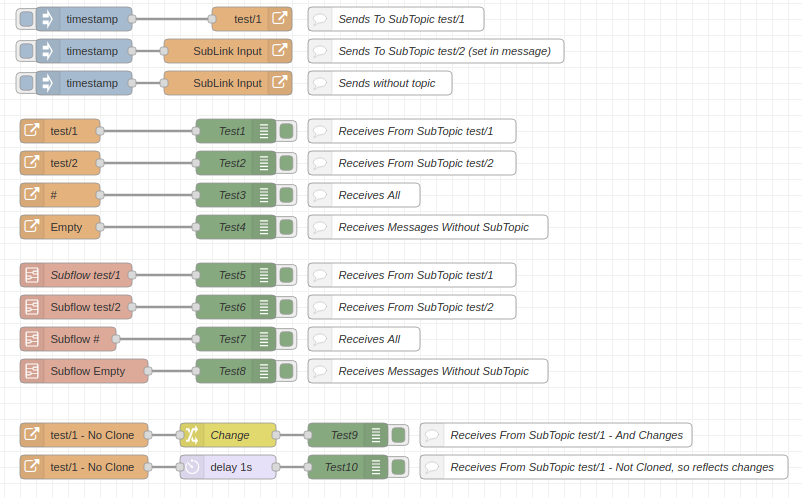
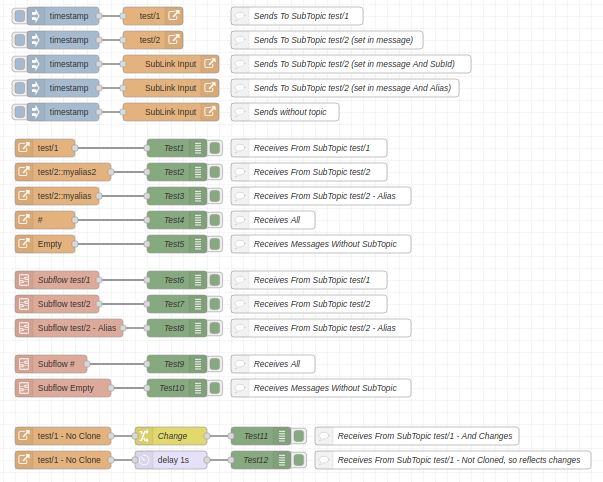
Added Alias and ID linking

diff --git a/sub-link-config.js b/sub-link-config.js
@@ -2,23 +2,44 @@ module.exports = function(RED) {
     function SubLinkNodeConfig(config) {
         RED.nodes.createNode(this, config);
         this.name  = config.name;
-        this.clone = config.clone
+        this.clone = config.clone;
+        this.alias = config.alias;
         var MQTTPattern = require("mqtt-pattern");
 
         var node = this;
 
         //List of Outputs to this config
         node.target = {};
+        node.aliasTarget = {};
+        node.targetAlias = {};
 
         //Listener To Emit New Messages To Output
-        node.listener = function(msg,subTopic=null) {
-            if(subTopic === "")
-            subTopic = null; 
+        node.listener = function(msg,topic=null) {
+            var target = node.target;
+            
+            var subId = null;
+            
+            if(msg.subId !== undefined){
+                target = {};
+                if(node.target[msg.subId] !== undefined){
+                    target[msg.subId] = node.target[msg.subId]; 
+                }
+            }else if(msg.subAlias !== undefined){
+                target = {};
+                if(node.aliasTarget[msg.subAlias] !== undefined){
+                    for(var o in node.aliasTarget[msg.subAlias]){
+                        target[o] = node.aliasTarget[msg.subAlias][o];
+                    }
+                }
+            }
+            
+            if(topic === "")
+                topic = null; 
 
-            if(subTopic === null && msg.subTopic !== undefined && msg.subTopic !== "")
-                subTopic = msg.subTopic;
+            if(topic === null && msg.subTopic !== undefined && msg.subTopic !== "")
+                topic = msg.subTopic;
 
-            for(out in node.target){
+            for(out in target){
                 
                 //Clone Messages
                 if(node.clone === true && msg._sub_flow_clone !== true){
@@ -29,44 +50,80 @@ module.exports = function(RED) {
                     message = msg;
 
                 //Checks If Sends Messagae
-                if(node.target[out].subTopic === "#"){
+                if(target[out].topic === "#"){
                     //Output All
-                }else if(subTopic !== null && node.target[out].subTopic !== null){
-                    if(MQTTPattern.matches(node.target[out].subTopic,subTopic) !== true)
+                }else if(topic !== null && target[out].topic !== null){
+                    if(MQTTPattern.matches(target[out].topic,topic) !== true)
                         continue;
-                }else if(subTopic !== null || node.target[out].subTopic !== null){
+                }else if(topic !== null || target[out].topic !== null){
                     continue;
-                }else if(subTopic !== null && node.target[out].subTopic === null){
+                }else if(topic !== null && target[out].topic === null){
                     continue;
-                }else if(subTopic === null && node.target[out].subTopic !== null){
+                }else if(topic === null && target[out].topic !== null){
                     continue;
                 }
 
-                node.target[out].node.sendMessage(message);
+                message.subTopic   = topic;
+                message.subMyId    = target[out].node.id;
+
+                if(target[out].node.name !== undefined)
+                    message.subMyName = target[out].node.name;
+
+                if(target[out].node.alias !== undefined)
+                    message.subMyAlias = target[out].node.alias;
+
+                //Delete Targets to prevent Loops
+                delete message.subId;
+                delete message.subAlias;
+
+                target[out].node.sendMessage(message);
                 delete message;
                 delete msg;
             }
         }
 
         //Register New Output
-        node.registerSubOutput = function(n,subTopic=null){
-            if(subTopic === "")
-            subTopic = null; 
+        node.registerSubOutput = function(n,topic=null){
+            if(topic === "")
+                topic = null; 
 
             node.target[n.id] = {};
             node.target[n.id].node = n;
-            node.target[n.id].subTopic = subTopic;
+            node.target[n.id].topic = topic;
+
+            if(n.alias !== undefined && n.alias !== "" && n.alias !== null){
+                if(this.aliasTarget[n.alias]===undefined)
+                    this.aliasTarget[n.alias] = {};
+                
+                if(this.targetAlias[n.id]!==undefined){ 
+                    delete this.aliasTarget[this.targetAlias[n.id]];
+                    this.targetAlias[n.id] = n.alias;
+                }
+
+                this.targetAlias[n.id] = n.alias;
+                this.aliasTarget[n.alias][n.id] = node.target[n.id];
+            }
         }
 
         //Unegister Output
         node.unregisterSubOutput = function(n){
             delete node.target[n.id];
+
+            if(n.alias !== undefined && n.alias !== "" && n.alias !== null && aliasTarget[n.alias] !== undefined)
+                delete aliasTarget[n.alias][n.id];
+
+            if(Object.keys(aliasTarget[n.alias]).length === 0)
+                delete aliasTarget[n.alias];
         }
 
         //Remove New Message Listener
         node.on("close",function(removed, done) { 
             for(t in node.target)
-                node.unregisterSubOutput(n);
+                node.unregisterSubOutput(node.target[t]);
+
+            node.target = {};
+            node.aliasTarget = {};
+            
             if(done)
                 done();
         });

diff --git a/sub-link-output.html b/sub-link-output.html
@@ -5,14 +5,19 @@
         icon: "font-awesome/fa-external-link",
         defaults: {
             name:  {value:""},
-            subTopic: {value:"",required:false,validate: RED.validators.regex(/^(#$|(\+|[^+#]*)(\/(\+|[^+#]*))*(\/(\+|#|[^+#]*))?$)/)},
+            topic: {value:"",required:false,validate: RED.validators.regex(/^(#$|(\+|[^+#]*)(\/(\+|[^+#]*))*(\/(\+|#|[^+#]*))?$)/)},
             link: {value:"", type: "sub-link-config", required:true},
+            alias: {value:""},
             clone: {value:false}
         },          
         inputs:0,
         outputs:1,
         label: function() {
-            return this.name||this.subTopic||"SubLink Output";
+            var name = this.name||this.topic||"SubLink Output";
+            if(this.alias !== undefined && this.alias !== "" && this.alias !== null)
+                name = name+"::"+this.alias;
+
+            return name;
         },
         paletteLabel: "SubLink Outbound"
     });
@@ -25,8 +30,13 @@
     </div>
 
     <div class="form-row">
-        <label for="node-input-subTopic"><i class="fa fa-tasks"></i> Topic</label>
-        <input type="text" id="node-input-subTopic">
+        <label for="node-input-topic"><i class="fa fa-tasks"></i> Topic</label>
+        <input type="text" id="node-input-topic">
+    </div>
+
+    <div class="form-row">
+        <label for="node-input-alias"><i class="fa fa-at"></i> Alias</label>
+        <input type="text" id="node-input-alias">
     </div>
 
     <div class="form-row">
@@ -42,9 +52,22 @@
 
 <script type="text/x-red" data-help-name="sub-link-output">
     <p>Recives message from a link</p>
+    <h3>Outputs</h3>
+    <dl class="message-properties">
+        <dt class="optional">subTopic <span class="property-type">string</span></dt>
+        <dd> the topic from the message.</dd>
+        <dt class="optional">subMyId <span class="property-type">string</span></dt>
+        <dd> the instance id.</dd>
+        <dt class="optional">subMyAlias <span class="property-type">string</span></dt>
+        <dd> the output alias.</dd>
+    </dl>
     <h3>Details</h3>
     <p>
         The message is send via the link to all ouput that use the same link object.
-        If a topic is informed, only outputs that subscribe to that topic will get the message
+        <ul>
+            <li> If a <code>subTopic</code> is informed, only outputs that subscribe to that topic will get the message</li>
+            <li> If <code>subId</code> is informed, only that instance id will get the message</li>
+            <li> If <code>subAlias</code> is informed, only outputs with that alias will get the message</li>
+        </ul>
     </p>
 </script>

diff --git a/sub-link-input.html b/sub-link-input.html
@@ -5,13 +5,13 @@
         color: '#e3b27d',
         defaults: {
             name:  {value:""},
-            subTopic: {value:"",required:false,validate: RED.validators.regex(/^(#$|(\+|[^+#]*)(\/(\+|[^+#]*))*(\/(\+|#|[^+#]*))?$)/)},
+            topic: {value:"",required:false,validate: RED.validators.regex(/^(#$|(\+|[^+#]*)(\/(\+|[^+#]*))*(\/(\+|#|[^+#]*))?$)/)},
             link:  {value:"", type: "sub-link-config", required:true}
         },          
         inputs:1,
         outputs:0,
         label: function() {
-            return this.name||this.subTopic||"SubLink Input";
+            return this.name||this.topic||"SubLink Input";
         },
         paletteLabel: "SubLink Inbound"
     });
@@ -23,8 +23,8 @@
         <input type="text" id="node-input-link">
     </div>
     <div class="form-row">
-        <label for="node-input-subTopic"><i class="fa fa-tasks"></i> Topic</label>
-        <input type="text" id="node-input-subTopic">
+        <label for="node-input-topic"><i class="fa fa-tasks"></i> Topic</label>
+        <input type="text" id="node-input-topic">
     </div>
     <div class="form-row">
         <label for="node-input-name"><i class="fa fa-tag"></i> Name</label>
@@ -37,11 +37,20 @@
     <h3>Inputs</h3>
     <dl class="message-properties">
         <dt class="optional">subTopic <span class="property-type">string</span></dt>
-        <dd> the optinal topic to send the message.</dd>
+        <dd> the optional topic to send the message.</dd>
+        <dt class="optional">subId <span class="property-type">string</span></dt>
+        <dd> the optional instance ID to send the message.</dd>
+        <dt class="optional">subAlias <span class="property-type">string</span></dt>
+        <dd> the optional alias to send the message.</dd>
     </dl>
     <h3>Details</h3>
     <p>
         The message is send via the link to all ouput that use the same link object.
-        If a topic is informed, only outputs that subscribe to that topic will get the message
+
+        <ul>
+            <li> If a <code>subTopic</code> is informed, only outputs that subscribe to that topic will get the message</li>
+            <li> If <code>subId</code> is informed, only that instance id will get the message</li>
+            <li> If <code>subAlias</code> is informed, only outputs with that alias will get the message</li>
+        </ul>
     </p>
 </script>

diff --git a/sub-link-output.js b/sub-link-output.js
@@ -2,7 +2,8 @@ module.exports = function(RED) {
     function SubLinkNodeOut(config) {
         RED.nodes.createNode(this,config);
         this.clone = config.clone;
-        this.subTopic = config.subTopic;
+        this.topic = config.topic;
+        this.alias = config.alias;
         
         var node = this;
 
@@ -26,7 +27,7 @@ module.exports = function(RED) {
 
         //Register Outbound Node In Config
         if (node.subLink) {
-            node.subLink.registerSubOutput(node,this.subTopic);
+            node.subLink.registerSubOutput(node,this.topic);
         }
 
         //Unregister Outbound Node In Config

diff --git a/sub-link-input.js b/sub-link-input.js
@@ -1,7 +1,7 @@
 module.exports = function(RED) {
     function SubLinkNodeIn(config) {
         RED.nodes.createNode(this,config);
-        this.subTopic = config.subTopic;
+        this.topic = config.topic;
 
         var node = this;
 
@@ -10,7 +10,7 @@ module.exports = function(RED) {
        
         //Send Inbound Message (Emit Event)
         this.on('input', function(msg, send, done) {
-            node.subLink.listener(msg,this.subTopic);
+            node.subLink.listener(msg,this.topic);
             delete msg;
 
             if (done)

diff --git a/README.md b/README.md
@@ -7,7 +7,7 @@ npm install node-red-contrib-sub-link
 ```
 
 ## Usage
-This node can be used to link flows and subflows, it will flow the message from an input, casting to all outputs that are linked. Linking can be done by configuring a "link" (each configuration node is a link) and can be refined by topics, similar to MQTT
+This node can be used to link flows and subflows, it will send the message from an input, casting to all outputs that are linked. Linking can be done by configuring a "link" (each configuration node is a link) and can be refined by topics, similar to MQTT, a alias or even a direct id of the istance.
 
 
 A message can be sent as it is, or cloned! Cloning a message can be achieved by cloning in the link (config node), in the output of the message. A message that is cloned will be a new instance of the object. If not cloned, all changes to the message in one flow, will impact the other.
@@ -26,7 +26,10 @@ A message can be sent as it is, or cloned! Cloning a message can be achieved by 
 - **Link:** The selected link to handle the messages
 - **Topic:** The topic that will send the message, this is optional. If not specified, only outputs with all wildcard (#) and outputs without topic will receive the message
 
-
+- **Message Properties**
+    - **subTopic**: The topic to send the message
+    - **subAlias**: The alias from the output node (can be captured in the output message in subMyAlias)
+    - **subId**: The id from the output node (can be captured in the output message in subMyId)
 
 ### Output
 ![Input](https://raw.githubusercontent.com/soloam/node-red-contrib-sub-link/beta/resources/output.png)
@@ -35,11 +38,16 @@ A message can be sent as it is, or cloned! Cloning a message can be achieved by 
 - **Topic:** The topic that will send the message, this is optional. If not specified, only outputs with all wildcard (#) and outputs without topic will receive the message
 - **Clone:** Clones all messages that exit this node
 
+- **Message Properties**
+    - **subTopic**: The topic of the message
+    - **subMyAlias**: The alias the output node (can be captured in the output message in subMyAlias)
+    - **subMyId**: The id from the output node (can be captured in the output message in subMyId)
+
 
 
 ## Example
 ![Input](https://raw.githubusercontent.com/soloam/node-red-contrib-sub-link/beta/resources/example-1.png)
 
 ```
-[{"id":"b541e6c.edc0418","type":"subflow","name":"Subflow Empty","info":"","category":"","in":[],"out":[{"x":360,"y":80,"wires":[{"id":"c87ae8c6.9bf478","port":0}]}],"env":[],"color":"#DDAA99"},{"id":"c87ae8c6.9bf478","type":"sub-link-output","z":"b541e6c.edc0418","name":"","subTopic":"","link":"d3ff029b.e3a1","clone":true,"x":200,"y":80,"wires":[[]]},{"id":"1a29752.8268f8b","type":"subflow","name":"Subflow #","info":"","category":"","in":[],"out":[{"x":320,"y":80,"wires":[{"id":"9d0d79d0.c7cd68","port":0}]}],"env":[],"color":"#DDAA99"},{"id":"9d0d79d0.c7cd68","type":"sub-link-output","z":"1a29752.8268f8b","name":"","subTopic":"#","link":"d3ff029b.e3a1","clone":true,"x":190,"y":80,"wires":[[]]},{"id":"f4458344.f38d4","type":"subflow","name":"Subflow test/2","info":"","category":"","in":[],"out":[{"x":320,"y":80,"wires":[{"id":"68691869.3c7178","port":0}]}],"env":[],"color":"#DDAA99"},{"id":"68691869.3c7178","type":"sub-link-output","z":"f4458344.f38d4","name":"","subTopic":"test/2","link":"d3ff029b.e3a1","clone":true,"x":190,"y":80,"wires":[[]]},{"id":"437255a2.1856bc","type":"subflow","name":"Subflow 5","info":"","in":[],"out":[{"x":320,"y":80,"wires":[{"id":"cec150.29716eb","port":0}]}]},{"id":"cec150.29716eb","type":"sub-link-output","z":"437255a2.1856bc","name":"","subTopic":"test/1","link":"d3ff029b.e3a1","clone":true,"x":190,"y":80,"wires":[[]]},{"id":"b6731dd8.60d45","type":"tab","label":"SubLink Example","disabled":false,"info":""},{"id":"653cb1a0.91487","type":"sub-link-input","z":"b6731dd8.60d45","name":"","subTopic":"test/1","link":"d3ff029b.e3a1","x":330,"y":80,"wires":[]},{"id":"55745a84.770bd4","type":"inject","z":"b6731dd8.60d45","name":"","props":[{"p":"payload"}],"repeat":"","crontab":"","once":false,"onceDelay":0.1,"topic":"","payload":"","payloadType":"date","x":120,"y":80,"wires":[["653cb1a0.91487"]]},{"id":"fe4b9bf7.dbd198","type":"sub-link-output","z":"b6731dd8.60d45","name":"Empty","subTopic":"","link":"d3ff029b.e3a1","clone":true,"x":90,"y":340,"wires":[["32154fd.2e2d6b"]]},{"id":"32154fd.2e2d6b","type":"debug","z":"b6731dd8.60d45","name":"Test4","active":true,"tosidebar":true,"console":false,"tostatus":false,"complete":"payload","targetType":"msg","statusVal":"","statusType":"auto","x":310,"y":340,"wires":[]},{"id":"bd7f2e41.6ff6a","type":"sub-link-output","z":"b6731dd8.60d45","name":"","subTopic":"test/1","link":"d3ff029b.e3a1","clone":true,"x":90,"y":220,"wires":[["363322fe.62a8ae"]]},{"id":"363322fe.62a8ae","type":"debug","z":"b6731dd8.60d45","name":"Test1","active":true,"tosidebar":true,"console":false,"tostatus":false,"complete":"payload","targetType":"msg","statusVal":"","statusType":"auto","x":310,"y":220,"wires":[]},{"id":"95c252aa.c1079","type":"sub-link-output","z":"b6731dd8.60d45","name":"","subTopic":"test/2","link":"d3ff029b.e3a1","clone":true,"x":90,"y":260,"wires":[["1bb779a9.ed2976"]]},{"id":"1bb779a9.ed2976","type":"debug","z":"b6731dd8.60d45","name":"Test2","active":true,"tosidebar":true,"console":false,"tostatus":false,"complete":"payload","targetType":"msg","statusVal":"","statusType":"auto","x":310,"y":260,"wires":[]},{"id":"aefa9841.70ee58","type":"sub-link-output","z":"b6731dd8.60d45","name":"","subTopic":"#","link":"d3ff029b.e3a1","clone":true,"x":90,"y":300,"wires":[["2ec9b537.d952ea"]]},{"id":"2ec9b537.d952ea","type":"debug","z":"b6731dd8.60d45","name":"Test3","active":true,"tosidebar":true,"console":false,"tostatus":false,"complete":"payload","targetType":"msg","statusVal":"","statusType":"auto","x":310,"y":300,"wires":[]},{"id":"2f407250.f68d7e","type":"inject","z":"b6731dd8.60d45","name":"","props":[{"p":"payload"},{"p":"subTopic","v":"test/2","vt":"str"}],"repeat":"","crontab":"","once":false,"onceDelay":0.1,"topic":"","payload":"","payloadType":"date","x":120,"y":120,"wires":[["1e6468af.197217"]]},{"id":"1e6468af.197217","type":"sub-link-input","z":"b6731dd8.60d45","name":"","subTopic":"","link":"d3ff029b.e3a1","x":300,"y":120,"wires":[]},{"id":"e8051ebd.d56d4","type":"inject","z":"b6731dd8.60d45","name":"","props":[{"p":"payload"}],"repeat":"","crontab":"","once":false,"onceDelay":0.1,"topic":"","payload":"","payloadType":"date","x":120,"y":160,"wires":[["f205d9e8.b7a528"]]},{"id":"f205d9e8.b7a528","type":"sub-link-input","z":"b6731dd8.60d45","name":"","subTopic":"","link":"d3ff029b.e3a1","x":300,"y":160,"wires":[]},{"id":"4e5913f2.54149c","type":"comment","z":"b6731dd8.60d45","name":"Sends To SubTopic test/1","info":"","x":510,"y":80,"wires":[]},{"id":"dafdde3d.a1cf1","type":"comment","z":"b6731dd8.60d45","name":"Sends To SubTopic test/2 (set in message)","info":"","x":560,"y":120,"wires":[]},{"id":"919fdb87.dc4ba8","type":"comment","z":"b6731dd8.60d45","name":"Sends without topic","info":"","x":490,"y":160,"wires":[]},{"id":"c43fe8c5.c67958","type":"comment","z":"b6731dd8.60d45","name":"Receives From SubTopic test/1","info":"","x":530,"y":220,"wires":[]},{"id":"52da3e1f.c66cf","type":"comment","z":"b6731dd8.60d45","name":"Receives From SubTopic test/2","info":"","x":530,"y":260,"wires":[]},{"id":"16420768.4e7cb9","type":"comment","z":"b6731dd8.60d45","name":"Receives All","info":"","x":470,"y":300,"wires":[]},{"id":"547b9a8b.fde254","type":"comment","z":"b6731dd8.60d45","name":"Receives Messages Without SubTopic","info":"","x":550,"y":340,"wires":[]},{"id":"6f215a20.c7b084","type":"debug","z":"b6731dd8.60d45","name":"Test8","active":true,"tosidebar":true,"console":false,"tostatus":false,"complete":"payload","targetType":"msg","statusVal":"","statusType":"auto","x":310,"y":520,"wires":[]},{"id":"5cf59a66.d77854","type":"debug","z":"b6731dd8.60d45","name":"Test5","active":true,"tosidebar":true,"console":false,"tostatus":false,"complete":"payload","targetType":"msg","statusVal":"","statusType":"auto","x":310,"y":400,"wires":[]},{"id":"1d563654.7805da","type":"debug","z":"b6731dd8.60d45","name":"Test6","active":true,"tosidebar":true,"console":false,"tostatus":false,"complete":"payload","targetType":"msg","statusVal":"","statusType":"auto","x":310,"y":440,"wires":[]},{"id":"4208c185.65935","type":"debug","z":"b6731dd8.60d45","name":"Test7","active":true,"tosidebar":true,"console":false,"tostatus":false,"complete":"payload","targetType":"msg","statusVal":"","statusType":"auto","x":310,"y":480,"wires":[]},{"id":"1c60a82b.6bbf88","type":"subflow:437255a2.1856bc","z":"b6731dd8.60d45","name":"Subflow test/1","env":[],"x":110,"y":400,"wires":[["5cf59a66.d77854"]]},{"id":"561b9cb1.5921f4","type":"subflow:f4458344.f38d4","z":"b6731dd8.60d45","name":"","env":[],"x":110,"y":440,"wires":[["1d563654.7805da"]]},{"id":"77161e7e.9d5a9","type":"subflow:1a29752.8268f8b","z":"b6731dd8.60d45","name":"","env":[],"x":100,"y":480,"wires":[["4208c185.65935"]]},{"id":"6f3cbe2d.ee005","type":"subflow:b541e6c.edc0418","z":"b6731dd8.60d45","name":"","env":[],"x":120,"y":520,"wires":[["6f215a20.c7b084"]]},{"id":"e3c3230a.83a7c","type":"comment","z":"b6731dd8.60d45","name":"Receives All","info":"","x":470,"y":480,"wires":[]},{"id":"1b873936.e73147","type":"comment","z":"b6731dd8.60d45","name":"Receives Messages Without SubTopic","info":"","x":550,"y":520,"wires":[]},{"id":"5f46d312.8e19ec","type":"sub-link-output","z":"b6731dd8.60d45","name":"test/1 - No Clone","subTopic":"test/1","link":"d3ff029b.e3a1","clone":false,"x":120,"y":600,"wires":[["40d140c4.99bf3"]]},{"id":"2094a526.9cc57a","type":"sub-link-output","z":"b6731dd8.60d45","name":"test/1 - No Clone","subTopic":"test/1","link":"d3ff029b.e3a1","clone":false,"x":120,"y":640,"wires":[["337aa181.c4033e"]]},{"id":"c86426fc.bea5f8","type":"debug","z":"b6731dd8.60d45","name":"Test9","active":true,"tosidebar":true,"console":false,"tostatus":false,"complete":"payload","targetType":"msg","statusVal":"","statusType":"auto","x":450,"y":600,"wires":[]},{"id":"27203fa0.7a6fd","type":"debug","z":"b6731dd8.60d45","name":"Test10","active":true,"tosidebar":true,"console":false,"tostatus":false,"complete":"payload","targetType":"msg","statusVal":"","statusType":"auto","x":450,"y":640,"wires":[]},{"id":"337aa181.c4033e","type":"delay","z":"b6731dd8.60d45","name":"","pauseType":"delay","timeout":"1","timeoutUnits":"seconds","rate":"1","nbRateUnits":"1","rateUnits":"second","randomFirst":"1","randomLast":"5","randomUnits":"seconds","drop":false,"x":300,"y":640,"wires":[["27203fa0.7a6fd"]]},{"id":"40d140c4.99bf3","type":"change","z":"b6731dd8.60d45","name":"Change","rules":[{"t":"set","p":"payload","pt":"msg","to":"Hello World","tot":"str"}],"action":"","property":"","from":"","to":"","reg":false,"x":300,"y":600,"wires":[["c86426fc.bea5f8"]]},{"id":"bf079277.2ef48","type":"comment","z":"b6731dd8.60d45","name":"Receives From SubTopic test/1","info":"","x":530,"y":400,"wires":[]},{"id":"d9f73743.60ef98","type":"comment","z":"b6731dd8.60d45","name":"Receives From SubTopic test/2","info":"","x":530,"y":440,"wires":[]},{"id":"35ea00ca.c9507","type":"comment","z":"b6731dd8.60d45","name":"Receives From SubTopic test/1 - And Changes","info":"","x":710,"y":600,"wires":[]},{"id":"47d6fe82.50ed8","type":"comment","z":"b6731dd8.60d45","name":"Receives From SubTopic test/1 - Not Cloned, so reflects changes","info":"","x":770,"y":640,"wires":[]},{"id":"d3ff029b.e3a1","type":"sub-link-config","name":"Test","clone":false}]
+[{"id":"adedd85f.d15e58","type":"subflow","name":"Subflow test/2 - Alias","info":"","category":"","in":[],"out":[{"x":260,"y":60,"wires":[{"id":"fa346945.85eea8","port":0}]}],"env":[],"color":"#DDAA99"},{"id":"fa346945.85eea8","type":"sub-link-output","z":"adedd85f.d15e58","name":"","topic":"test/2","link":"d3ff029b.e3a1","alias":"myalias","clone":true,"x":110,"y":60,"wires":[[]]},{"id":"b541e6c.edc0418","type":"subflow","name":"Subflow Empty","info":"","category":"","in":[],"out":[{"x":360,"y":80,"wires":[{"id":"c87ae8c6.9bf478","port":0}]}],"env":[],"color":"#DDAA99"},{"id":"c87ae8c6.9bf478","type":"sub-link-output","z":"b541e6c.edc0418","name":"","link":"d3ff029b.e3a1","clone":true,"x":200,"y":80,"wires":[[]]},{"id":"1a29752.8268f8b","type":"subflow","name":"Subflow #","info":"","category":"","in":[],"out":[{"x":240,"y":40,"wires":[{"id":"9d0d79d0.c7cd68","port":0}]}],"env":[],"color":"#DDAA99"},{"id":"9d0d79d0.c7cd68","type":"sub-link-output","z":"1a29752.8268f8b","name":"","topic":"#","link":"d3ff029b.e3a1","alias":"","clone":true,"x":90,"y":40,"wires":[[]]},{"id":"f4458344.f38d4","type":"subflow","name":"Subflow test/2","info":"","category":"","in":[],"out":[{"x":240,"y":40,"wires":[{"id":"68691869.3c7178","port":0}]}],"env":[],"color":"#DDAA99"},{"id":"68691869.3c7178","type":"sub-link-output","z":"f4458344.f38d4","name":"","topic":"test/2","link":"d3ff029b.e3a1","alias":"","clone":true,"x":90,"y":40,"wires":[[]]},{"id":"437255a2.1856bc","type":"subflow","name":"Subflow 5","info":"","in":[],"out":[{"x":240,"y":40,"wires":[{"id":"cec150.29716eb","port":0}]}]},{"id":"cec150.29716eb","type":"sub-link-output","z":"437255a2.1856bc","name":"","topic":"test/1","link":"d3ff029b.e3a1","alias":"","clone":true,"x":90,"y":40,"wires":[[]]},{"id":"b6731dd8.60d45","type":"tab","label":"SubLink Example","disabled":false,"info":""},{"id":"653cb1a0.91487","type":"sub-link-input","z":"b6731dd8.60d45","name":"","topic":"test/1","link":"d3ff029b.e3a1","x":270,"y":40,"wires":[]},{"id":"55745a84.770bd4","type":"inject","z":"b6731dd8.60d45","name":"","props":[{"p":"payload"}],"repeat":"","crontab":"","once":false,"onceDelay":0.1,"topic":"","payload":"","payloadType":"date","x":120,"y":40,"wires":[["653cb1a0.91487"]]},{"id":"fe4b9bf7.dbd198","type":"sub-link-output","z":"b6731dd8.60d45","name":"Empty","topic":"","link":"d3ff029b.e3a1","alias":"","clone":true,"x":90,"y":420,"wires":[["32154fd.2e2d6b"]]},{"id":"32154fd.2e2d6b","type":"debug","z":"b6731dd8.60d45","name":"Test5","active":true,"tosidebar":true,"console":false,"tostatus":false,"complete":"true","targetType":"full","statusVal":"","statusType":"auto","x":310,"y":420,"wires":[]},{"id":"bd7f2e41.6ff6a","type":"sub-link-output","z":"b6731dd8.60d45","name":"","topic":"test/1","link":"d3ff029b.e3a1","alias":"","clone":true,"x":90,"y":260,"wires":[["363322fe.62a8ae"]]},{"id":"363322fe.62a8ae","type":"debug","z":"b6731dd8.60d45","name":"Test1","active":true,"tosidebar":true,"console":false,"tostatus":false,"complete":"true","targetType":"full","statusVal":"","statusType":"auto","x":310,"y":260,"wires":[]},{"id":"95c252aa.c1079","type":"sub-link-output","z":"b6731dd8.60d45","name":"","topic":"test/2","link":"d3ff029b.e3a1","alias":"myalias2","clone":true,"x":120,"y":300,"wires":[["1bb779a9.ed2976"]]},{"id":"1bb779a9.ed2976","type":"debug","z":"b6731dd8.60d45","name":"Test2","active":true,"tosidebar":true,"console":false,"tostatus":false,"complete":"true","targetType":"full","statusVal":"","statusType":"auto","x":310,"y":300,"wires":[]},{"id":"aefa9841.70ee58","type":"sub-link-output","z":"b6731dd8.60d45","name":"","topic":"#","link":"d3ff029b.e3a1","alias":"","clone":true,"x":90,"y":380,"wires":[["2ec9b537.d952ea"]]},{"id":"2ec9b537.d952ea","type":"debug","z":"b6731dd8.60d45","name":"Test4","active":true,"tosidebar":true,"console":false,"tostatus":false,"complete":"true","targetType":"full","statusVal":"","statusType":"auto","x":310,"y":380,"wires":[]},{"id":"2f407250.f68d7e","type":"inject","z":"b6731dd8.60d45","name":"","props":[{"p":"payload"},{"p":"subTopic","v":"test/2","vt":"str"}],"repeat":"","crontab":"","once":false,"onceDelay":0.1,"topic":"","payload":"","payloadType":"date","x":120,"y":80,"wires":[["1e6468af.197217"]]},{"id":"1e6468af.197217","type":"sub-link-input","z":"b6731dd8.60d45","name":"","topic":"test/2","link":"d3ff029b.e3a1","x":270,"y":80,"wires":[]},{"id":"e8051ebd.d56d4","type":"inject","z":"b6731dd8.60d45","name":"","props":[{"p":"payload"}],"repeat":"","crontab":"","once":false,"onceDelay":0.1,"topic":"","payload":"","payloadType":"date","x":120,"y":200,"wires":[["f205d9e8.b7a528"]]},{"id":"f205d9e8.b7a528","type":"sub-link-input","z":"b6731dd8.60d45","name":"","link":"d3ff029b.e3a1","x":300,"y":200,"wires":[]},{"id":"4e5913f2.54149c","type":"comment","z":"b6731dd8.60d45","name":"Sends To SubTopic test/1","info":"","x":510,"y":40,"wires":[]},{"id":"dafdde3d.a1cf1","type":"comment","z":"b6731dd8.60d45","name":"Sends To SubTopic test/2 (set in message)","info":"","x":560,"y":80,"wires":[]},{"id":"919fdb87.dc4ba8","type":"comment","z":"b6731dd8.60d45","name":"Sends without topic","info":"","x":490,"y":200,"wires":[]},{"id":"c43fe8c5.c67958","type":"comment","z":"b6731dd8.60d45","name":"Receives From SubTopic test/1","info":"","x":530,"y":260,"wires":[]},{"id":"52da3e1f.c66cf","type":"comment","z":"b6731dd8.60d45","name":"Receives From SubTopic test/2","info":"","x":530,"y":300,"wires":[]},{"id":"16420768.4e7cb9","type":"comment","z":"b6731dd8.60d45","name":"Receives All","info":"","x":470,"y":380,"wires":[]},{"id":"547b9a8b.fde254","type":"comment","z":"b6731dd8.60d45","name":"Receives Messages Without SubTopic","info":"","x":550,"y":420,"wires":[]},{"id":"6f215a20.c7b084","type":"debug","z":"b6731dd8.60d45","name":"Test10","active":true,"tosidebar":true,"console":false,"tostatus":false,"complete":"true","targetType":"full","statusVal":"","statusType":"auto","x":310,"y":660,"wires":[]},{"id":"5cf59a66.d77854","type":"debug","z":"b6731dd8.60d45","name":"Test6","active":true,"tosidebar":true,"console":false,"tostatus":false,"complete":"true","targetType":"full","statusVal":"","statusType":"auto","x":310,"y":480,"wires":[]},{"id":"1d563654.7805da","type":"debug","z":"b6731dd8.60d45","name":"Test7","active":true,"tosidebar":true,"console":false,"tostatus":false,"complete":"true","targetType":"full","statusVal":"","statusType":"auto","x":310,"y":520,"wires":[]},{"id":"4208c185.65935","type":"debug","z":"b6731dd8.60d45","name":"Test9","active":true,"tosidebar":true,"console":false,"tostatus":false,"complete":"true","targetType":"full","statusVal":"","statusType":"auto","x":310,"y":620,"wires":[]},{"id":"1c60a82b.6bbf88","type":"subflow:437255a2.1856bc","z":"b6731dd8.60d45","name":"Subflow test/1","env":[],"x":110,"y":480,"wires":[["5cf59a66.d77854"]]},{"id":"561b9cb1.5921f4","type":"subflow:f4458344.f38d4","z":"b6731dd8.60d45","name":"","env":[],"x":110,"y":520,"wires":[["1d563654.7805da"]]},{"id":"77161e7e.9d5a9","type":"subflow:1a29752.8268f8b","z":"b6731dd8.60d45","name":"","env":[],"x":100,"y":620,"wires":[["4208c185.65935"]]},{"id":"6f3cbe2d.ee005","type":"subflow:b541e6c.edc0418","z":"b6731dd8.60d45","name":"","env":[],"x":120,"y":660,"wires":[["6f215a20.c7b084"]]},{"id":"e3c3230a.83a7c","type":"comment","z":"b6731dd8.60d45","name":"Receives All","info":"","x":470,"y":620,"wires":[]},{"id":"1b873936.e73147","type":"comment","z":"b6731dd8.60d45","name":"Receives Messages Without SubTopic","info":"","x":550,"y":660,"wires":[]},{"id":"5f46d312.8e19ec","type":"sub-link-output","z":"b6731dd8.60d45","name":"test/1 - No Clone","topic":"test/1","link":"d3ff029b.e3a1","alias":"","clone":false,"x":120,"y":740,"wires":[["40d140c4.99bf3"]]},{"id":"2094a526.9cc57a","type":"sub-link-output","z":"b6731dd8.60d45","name":"test/1 - No Clone","topic":"test/1","link":"d3ff029b.e3a1","alias":"","clone":false,"x":120,"y":780,"wires":[["337aa181.c4033e"]]},{"id":"c86426fc.bea5f8","type":"debug","z":"b6731dd8.60d45","name":"Test11","active":true,"tosidebar":true,"console":false,"tostatus":false,"complete":"true","targetType":"full","statusVal":"","statusType":"auto","x":450,"y":740,"wires":[]},{"id":"27203fa0.7a6fd","type":"debug","z":"b6731dd8.60d45","name":"Test12","active":true,"tosidebar":true,"console":false,"tostatus":false,"complete":"true","targetType":"full","statusVal":"","statusType":"auto","x":450,"y":780,"wires":[]},{"id":"337aa181.c4033e","type":"delay","z":"b6731dd8.60d45","name":"","pauseType":"delay","timeout":"1","timeoutUnits":"seconds","rate":"1","nbRateUnits":"1","rateUnits":"second","randomFirst":"1","randomLast":"5","randomUnits":"seconds","drop":false,"x":300,"y":780,"wires":[["27203fa0.7a6fd"]]},{"id":"40d140c4.99bf3","type":"change","z":"b6731dd8.60d45","name":"Change","rules":[{"t":"set","p":"payload","pt":"msg","to":"Hello World","tot":"str"}],"action":"","property":"","from":"","to":"","reg":false,"x":300,"y":740,"wires":[["c86426fc.bea5f8"]]},{"id":"bf079277.2ef48","type":"comment","z":"b6731dd8.60d45","name":"Receives From SubTopic test/1","info":"","x":530,"y":480,"wires":[]},{"id":"d9f73743.60ef98","type":"comment","z":"b6731dd8.60d45","name":"Receives From SubTopic test/2","info":"","x":530,"y":520,"wires":[]},{"id":"35ea00ca.c9507","type":"comment","z":"b6731dd8.60d45","name":"Receives From SubTopic test/1 - And Changes","info":"","x":710,"y":740,"wires":[]},{"id":"47d6fe82.50ed8","type":"comment","z":"b6731dd8.60d45","name":"Receives From SubTopic test/1 - Not Cloned, so reflects changes","info":"","x":770,"y":780,"wires":[]},{"id":"fa0070c0.f7e75","type":"inject","z":"b6731dd8.60d45","name":"","props":[{"p":"payload"},{"p":"subTopic","v":"test/2","vt":"str"},{"p":"subId","v":"95c252aa.c1079","vt":"str"}],"repeat":"","crontab":"","once":false,"onceDelay":0.1,"topic":"","payload":"","payloadType":"date","x":120,"y":120,"wires":[["2a6a43dd.493b9c"]]},{"id":"2a6a43dd.493b9c","type":"sub-link-input","z":"b6731dd8.60d45","name":"","link":"d3ff029b.e3a1","x":300,"y":120,"wires":[]},{"id":"908cfa82.3cb648","type":"comment","z":"b6731dd8.60d45","name":"Sends To SubTopic test/2 (set in message And SubId)","info":"","x":600,"y":120,"wires":[]},{"id":"57d5a4b1.e5513c","type":"inject","z":"b6731dd8.60d45","name":"","props":[{"p":"payload"},{"p":"subTopic","v":"test/2","vt":"str"},{"p":"subAlias","v":"myalias","vt":"str"}],"repeat":"","crontab":"","once":false,"onceDelay":0.1,"topic":"","payload":"","payloadType":"date","x":120,"y":160,"wires":[["a1661205.f55d3"]]},{"id":"a1661205.f55d3","type":"sub-link-input","z":"b6731dd8.60d45","name":"","link":"d3ff029b.e3a1","x":300,"y":160,"wires":[]},{"id":"fe83cc10.617fd","type":"comment","z":"b6731dd8.60d45","name":"Sends To SubTopic test/2 (set in message And Alias)","info":"","x":590,"y":160,"wires":[]},{"id":"6f7b197a.c697f8","type":"debug","z":"b6731dd8.60d45","name":"Test3","active":true,"tosidebar":true,"console":false,"tostatus":false,"complete":"true","targetType":"full","statusVal":"","statusType":"auto","x":310,"y":340,"wires":[]},{"id":"1e50810c.94dcaf","type":"comment","z":"b6731dd8.60d45","name":"Receives From SubTopic test/2 - Alias","info":"","x":550,"y":340,"wires":[]},{"id":"11c25ae.2fb4ca5","type":"sub-link-output","z":"b6731dd8.60d45","name":"","topic":"test/2","link":"d3ff029b.e3a1","alias":"myalias","clone":true,"x":110,"y":340,"wires":[["6f7b197a.c697f8"]]},{"id":"de3de113.eab9b","type":"subflow:adedd85f.d15e58","z":"b6731dd8.60d45","name":"","env":[],"x":130,"y":560,"wires":[["275146d.b2e3dba"]]},{"id":"275146d.b2e3dba","type":"debug","z":"b6731dd8.60d45","name":"Test8","active":true,"tosidebar":true,"console":false,"tostatus":false,"complete":"true","targetType":"full","statusVal":"","statusType":"auto","x":310,"y":560,"wires":[]},{"id":"362bbce8.a728f4","type":"comment","z":"b6731dd8.60d45","name":"Receives From SubTopic test/2 - Alias","info":"","x":550,"y":560,"wires":[]},{"id":"d3ff029b.e3a1","type":"sub-link-config","name":"Test","clone":false}]
 ```
